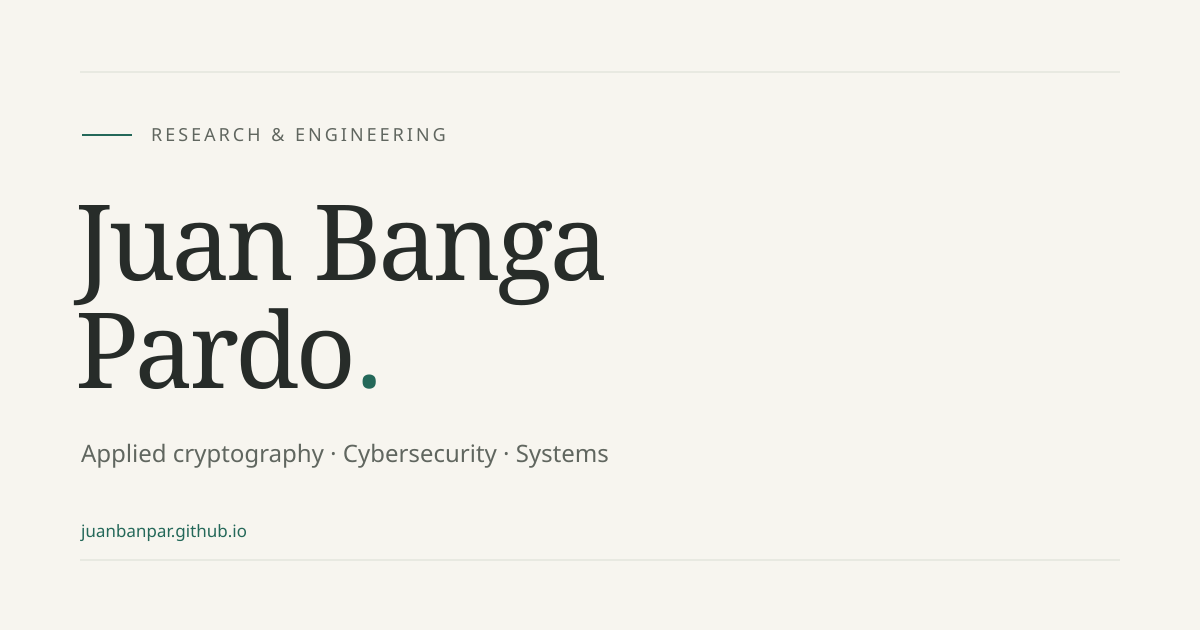
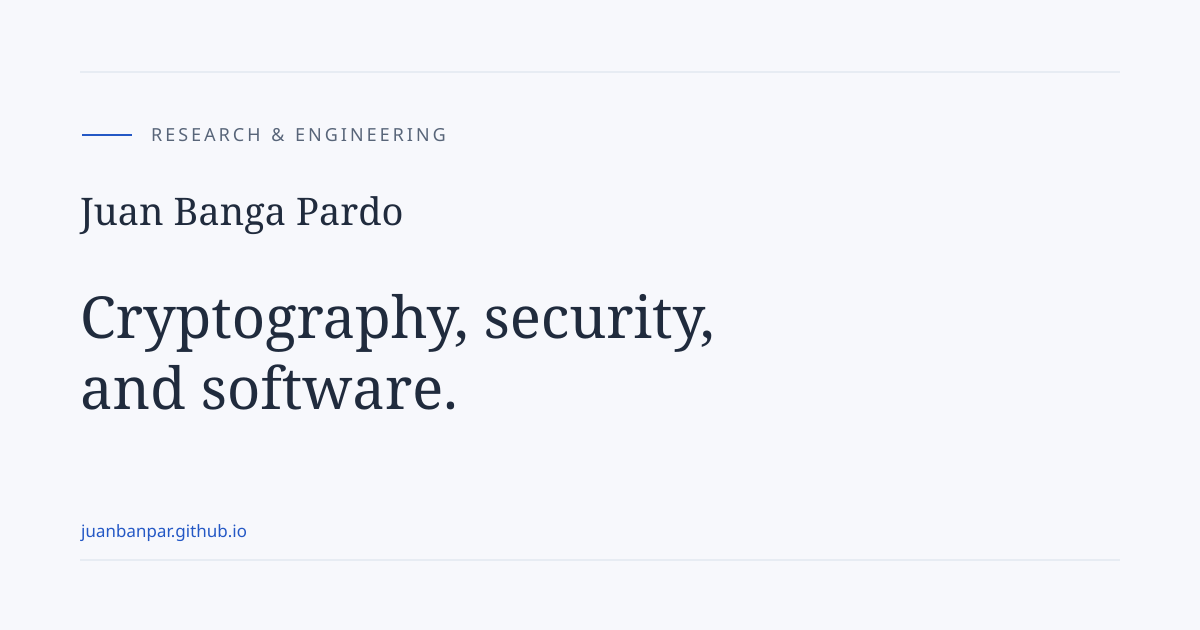
Refine blue theme and personal copy

diff --git a/src/lib/i18n.ts b/src/lib/i18n.ts
@@ -12,13 +12,14 @@ export const ui = {
   en: {
     nav: { home: 'Home', about: 'About', work: 'Work', writing: 'Writing' },
     role: 'Research & engineering',
-    introduction: 'I work where cryptography, hardware, and system trust meet.',
-    introDetail: 'Software engineer and cybersecurity researcher at Gradiant. I turn applied security research into working systems.',
+    greeting: "Hi, I'm Juan.",
+    introduction: 'I write software and ask awkward questions about what it trusts.',
+    introDetail: 'Software engineer and cybersecurity researcher at Gradiant. I work on cryptography, confidential computing, and Linux/RISC-V systems.',
     aboutLink: 'More about me', workLink: 'All work', writingLink: 'All writing',
     interests: 'Areas of interest', selected: 'Selected work', latest: 'Latest writing',
-    workIntro: 'Papers, talks, and software. A selection of things I have researched, built, and shared.',
-    writingIntro: 'Articles, working notes, and things that caught my attention.',
-    writingEmpty: 'Nothing published here yet. My papers, talks, and projects are collected in Work.',
+    workIntro: "Papers I've co-written, talks I've given, and things I've built.",
+    writingIntro: 'Notes on security, code, and things I probably spent too long investigating.',
+    writingEmpty: 'No posts yet. For now, the code and talks are in Work.',
     publications: 'Publications', talks: 'Talks', projects: 'Projects',
     paper: 'Publication', talk: 'Talk', project: 'Project', article: 'Article', note: 'Note',
     paperLink: 'Proceedings', talkLink: 'Event', codeLink: 'Source code', demoLink: 'Try WepSIM',
@@ -27,20 +28,21 @@ export const ui = {
     translations: 'Translations', archiveLabel: 'Writing archive', archiveFallback: 'Writing archive; this entry is not translated',
     back: 'Back to writing', notFound: 'Page not found',
     notFoundIntro: 'This page may have moved, or the address may be incorrect.', returnHome: 'Return home',
-    rss: 'RSS feed', footer: 'Research, software, and occasional notes.',
+    rss: 'RSS feed', footer: 'Code, cryptography, and occasional detours.',
     aboutDescription: 'Background, experience, and interests of Juan Banga Pardo, software engineer and cybersecurity researcher.',
     writingDescription: 'Articles and notes by Juan Banga Pardo on cryptography, security, and systems.',
   },
   gl: {
     nav: { home: 'Inicio', about: 'Sobre min', work: 'Traballo', writing: 'Escritos' },
     role: 'Investigación e enxeñaría',
-    introduction: 'Traballo onde conflúen a criptografía, o hardware e a confianza nos sistemas.',
-    introDetail: 'Enxeñeiro de software e investigador en ciberseguridade en Gradiant. Converto a investigación en seguridade aplicada en sistemas que funcionan.',
+    greeting: 'Ola, son Juan.',
+    introduction: 'Escribo software e fago preguntas incómodas sobre en que confía.',
+    introDetail: 'Enxeñeiro de software e investigador en ciberseguridade en Gradiant. Traballo en criptografía, computación confidencial e sistemas Linux/RISC-V.',
     aboutLink: 'Máis sobre min', workLink: 'Todo o traballo', writingLink: 'Todos os escritos',
     interests: 'Áreas de interese', selected: 'Traballo seleccionado', latest: 'Últimos escritos',
-    workIntro: 'Artigos científicos, charlas e software. Unha selección do que investiguei, desenvolvín e compartín.',
-    writingIntro: 'Artigos, notas de traballo e cousas que me chamaron a atención.',
-    writingEmpty: 'Aínda non hai escritos publicados aquí. As miñas publicacións, charlas e proxectos están en Traballo.',
+    workIntro: 'Artigos nos que participei, charlas que dei e cousas que desenvolvín.',
+    writingIntro: 'Notas sobre seguridade, código e cousas que probablemente investiguei máis tempo da conta.',
+    writingEmpty: 'Aínda non hai entradas. Polo de agora, o código e as charlas están en Traballo.',
     publications: 'Publicacións', talks: 'Charlas', projects: 'Proxectos',
     paper: 'Publicación', talk: 'Charla', project: 'Proxecto', article: 'Artigo', note: 'Nota',
     paperLink: 'Actas', talkLink: 'Evento', codeLink: 'Código fonte', demoLink: 'Probar WepSIM',
@@ -49,20 +51,21 @@ export const ui = {
     translations: 'Traducións', archiveLabel: 'Arquivo de escritos', archiveFallback: 'Arquivo de escritos; esta entrada non está traducida',
     back: 'Volver aos escritos', notFound: 'Páxina non atopada',
     notFoundIntro: 'Esta páxina pode ter cambiado de sitio ou o enderezo pode ser incorrecto.', returnHome: 'Volver ao inicio',
-    rss: 'Fonte RSS', footer: 'Investigación, software e notas ocasionais.',
+    rss: 'Fonte RSS', footer: 'Código, criptografía e algún desvío.',
     aboutDescription: 'Traxectoria, experiencia e intereses de Juan Banga Pardo, enxeñeiro de software e investigador en ciberseguridade.',
     writingDescription: 'Artigos e notas de Juan Banga Pardo sobre criptografía, seguridade e sistemas.',
   },
   es: {
     nav: { home: 'Inicio', about: 'Sobre mí', work: 'Trabajo', writing: 'Escritos' },
     role: 'Investigación e ingeniería',
-    introduction: 'Trabajo donde confluyen la criptografía, el hardware y la confianza en los sistemas.',
-    introDetail: 'Ingeniero de software e investigador en ciberseguridad en Gradiant. Convierto la investigación en seguridad aplicada en sistemas que funcionan.',
+    greeting: 'Hola, soy Juan.',
+    introduction: 'Escribo software y hago preguntas incómodas sobre en qué confía.',
+    introDetail: 'Ingeniero de software e investigador en ciberseguridad en Gradiant. Trabajo en criptografía, computación confidencial y sistemas Linux/RISC-V.',
     aboutLink: 'Más sobre mí', workLink: 'Todo el trabajo', writingLink: 'Todos los escritos',
     interests: 'Áreas de interés', selected: 'Trabajo seleccionado', latest: 'Últimos escritos',
-    workIntro: 'Artículos científicos, charlas y software. Una selección de lo que he investigado, desarrollado y compartido.',
-    writingIntro: 'Artículos, notas de trabajo y cosas que me llamaron la atención.',
-    writingEmpty: 'Todavía no hay escritos publicados aquí. Mis publicaciones, charlas y proyectos están en Trabajo.',
+    workIntro: 'Artículos que he escrito con otros, charlas que he dado y cosas que he desarrollado.',
+    writingIntro: 'Notas sobre seguridad, código y cosas que probablemente investigué más tiempo de la cuenta.',
+    writingEmpty: 'Todavía no hay entradas. Por ahora, el código y las charlas están en Trabajo.',
     publications: 'Publicaciones', talks: 'Charlas', projects: 'Proyectos',
     paper: 'Publicación', talk: 'Charla', project: 'Proyecto', article: 'Artículo', note: 'Nota',
     paperLink: 'Actas', talkLink: 'Evento', codeLink: 'Código fuente', demoLink: 'Probar WepSIM',
@@ -71,7 +74,7 @@ export const ui = {
     translations: 'Traducciones', archiveLabel: 'Archivo de escritos', archiveFallback: 'Archivo de escritos; esta entrada no está traducida',
     back: 'Volver a los escritos', notFound: 'Página no encontrada',
     notFoundIntro: 'Esta página puede haberse movido o la dirección puede ser incorrecta.', returnHome: 'Volver al inicio',
-    rss: 'Fuente RSS', footer: 'Investigación, software y notas ocasionales.',
+    rss: 'Fuente RSS', footer: 'Código, criptografía y algún desvío.',
     aboutDescription: 'Trayectoria, experiencia e intereses de Juan Banga Pardo, ingeniero de software e investigador en ciberseguridad.',
     writingDescription: 'Artículos y notas de Juan Banga Pardo sobre criptografía, seguridad y sistemas.',
   },

diff --git a/src/styles/global.css b/src/styles/global.css
@@ -11,12 +11,12 @@
 @layer theme {
   :root {
     color-scheme: light;
-    --bg: #f7f5ef;
-    --text: #272c29;
-    --muted: #60665f;
-    --accent: #246859;
-    --line: #d9ddd3;
-    --surface: #eeeee6;
+    --bg: #f7f8fc;
+    --text: #202b3d;
+    --muted: #586579;
+    --accent: #2458c5;
+    --line: #d8dfea;
+    --surface: #edf1f8;
     --serif: 'Iowan Old Style', 'Palatino Linotype', 'Book Antiqua', 'URW Palladio L', Georgia, serif;
     --sans: -apple-system, BlinkMacSystemFont, 'Segoe UI', sans-serif;
     --mono: 'SFMono-Regular', Consolas, 'Liberation Mono', monospace;
@@ -24,12 +24,12 @@
   @media (prefers-color-scheme: dark) {
     :root:not([data-theme='light']) {
       color-scheme: dark;
-      --bg: #191e1b; --text: #ecece1; --muted: #b1b9af; --accent: #94cbbb; --line: #3a443c; --surface: #252d27;
+      --bg: #131923; --text: #e7edf7; --muted: #a8b6cc; --accent: #8db8ff; --line: #303d52; --surface: #1d2839;
     }
   }
   :root[data-theme='dark'] {
     color-scheme: dark;
-    --bg: #191e1b; --text: #ecece1; --muted: #b1b9af; --accent: #94cbbb; --line: #3a443c; --surface: #252d27;
+    --bg: #131923; --text: #e7edf7; --muted: #a8b6cc; --accent: #8db8ff; --line: #303d52; --surface: #1d2839;
   }
 }
 
@@ -42,7 +42,7 @@
   a, button, summary { -webkit-tap-highlight-color: transparent; }
   :focus-visible { outline: 2px solid var(--accent); outline-offset: 5px; border-radius: 2px; }
   h1, h2, h3 { font-family: var(--serif); font-weight: 400; line-height: 1.16; text-wrap: balance; }
-  h1 { font-size: clamp(3rem, 7vw, 5.3rem); letter-spacing: -.045em; }
+  h1 { font-size: clamp(2.5rem, 5vw, 3.8rem); letter-spacing: -.035em; }
   h2 { font-size: clamp(1.8rem, 3vw, 2.2rem); letter-spacing: -.025em; }
   h3 { font-size: 1.6rem; letter-spacing: -.015em; }
   p { text-wrap: pretty; }
@@ -55,45 +55,38 @@
 @layer layout {
   .shell { width: min(100% - 6rem, 960px); margin-inline: auto; }
   .site-header { display: flex; align-items: center; gap: 2rem; padding-block: 2rem; border-bottom: 1px solid var(--line); }
-  .identity { color: var(--text); text-decoration: none; display: flex; align-items: center; gap: .8rem; margin-right: auto; }
-  .identity:hover { text-decoration: none; }
-  .monogram { font-family: var(--serif); font-size: 2.3rem; letter-spacing: -.08em; line-height: 1; }
-  .monogram span { color: var(--accent); }
-  .identity-name { font-size: .82rem; font-weight: 500; }
-  .main-nav { display: flex; gap: 1.6rem; align-items: center; }
+  .main-nav { display: flex; gap: 1.6rem; align-items: center; margin-right: auto; }
   .main-nav a { text-decoration: none; color: var(--muted); font-size: .85rem; padding-block: .45rem; }
   .main-nav a:hover, .main-nav a[aria-current='page'] { color: var(--text); text-decoration: underline; text-decoration-color: var(--accent); text-underline-offset: .65em; }
   .header-tools { display: flex; align-items: center; gap: .65rem; }
   main { min-height: 55vh; padding-bottom: 5rem; }
   .site-footer { display: flex; justify-content: space-between; gap: 2rem; border-top: 1px solid var(--line); padding-block: 2rem 3rem; }
-  .footer-name { font-family: var(--serif); font-size: 1.1rem; }
-  .site-footer p { font-size: .78rem; color: var(--muted); margin-top: .3rem; }
+  .site-footer p { font-size: .78rem; color: var(--muted); }
   .profile-links { display: flex; gap: 1.2rem; flex-wrap: wrap; align-items: start; padding-top: .25rem; }
   .profile-links a { font-size: .8rem; text-decoration: none; color: var(--muted); }
   .profile-links a:hover { color: var(--accent); text-decoration: underline; }
   @media (max-width: 760px) {
     .shell { width: calc(100% - 3rem); }
-    .site-header { gap: 1.4rem; flex-wrap: wrap; padding-block: 1.5rem; }
-    .identity { flex: 1; }
-    .main-nav { order: 3; flex-basis: 100%; gap: 1.8rem; }
+    .site-header { gap: .7rem; padding-block: 1.3rem; }
+    .main-nav { gap: 1.2rem; }
     .site-footer { flex-direction: column; gap: 1.25rem; }
     main { padding-bottom: 3.5rem; }
   }
   @media (max-width: 380px) {
     .shell { width: calc(100% - 2rem); }
-    .identity-name { font-size: .75rem; }
-    .main-nav { gap: 1.4rem; }
+    .main-nav { gap: .85rem; }
+    .main-nav a { font-size: .78rem; }
     .header-tools { gap: .15rem; }
   }
 }
 
 @layer components {
   .eyebrow { font-family: var(--sans); font-size: .7rem; text-transform: uppercase; letter-spacing: .13em; font-weight: 500; color: var(--muted); line-height: 1.5; }
-  .hero { padding-block: 5.3rem 3.5rem; max-width: 780px; }
+  .hero { padding-block: 4.2rem 3.2rem; max-width: 780px; }
   .hero .eyebrow { display: flex; gap: .85rem; align-items: center; margin-bottom: 1.6rem; }
   .accent-line { height: 1px; width: 2rem; background: var(--accent); }
-  .hero h1 { font-size: clamp(4.5rem, 10vw, 7.5rem); line-height: .97; letter-spacing: -.055em; margin-left: -.045em; }
-  .hero-lead { font-family: var(--serif); font-size: clamp(1.45rem, 3vw, 1.95rem); max-width: 630px; line-height: 1.35; margin-top: 2rem; }
+  .hero h1 { font-size: clamp(2.2rem, 4vw, 3rem); line-height: 1.15; letter-spacing: -.035em; }
+  .hero-lead { font-family: var(--serif); font-size: clamp(1.35rem, 2.5vw, 1.7rem); max-width: 620px; line-height: 1.4; margin-top: 1.4rem; }
   .hero-detail { max-width: 540px; color: var(--muted); font-size: .98rem; margin-block: 1rem 1.5rem; }
   .text-link { display: inline-flex; align-items: baseline; gap: .4rem; font-size: .83rem; text-decoration: none; }
   .text-link:hover { text-decoration: underline; }
@@ -162,7 +155,6 @@
     .section-heading { align-items: start; }
     .section-heading .text-link { font-size: .73rem; padding-top: .45rem; flex-shrink: 0; }
     .section-heading h2 { font-size: 1.65rem; }
-    .hero h1 { font-size: 4.5rem; }
     .page-section { margin-top: 2.6rem; }
   }
 }

diff --git a/tests/browser/site.spec.ts b/tests/browser/site.spec.ts
@@ -37,11 +37,11 @@ test('theme follows the device, can be overridden, persists, and can return to s
   await page.emulateMedia({ colorScheme: 'dark' });
   await page.goto('/');
   const bg = () => page.locator('html').evaluate((element) => getComputedStyle(element).backgroundColor);
-  expect(await bg()).toBe('rgb(25, 30, 27)');
+  expect(await bg()).toBe('rgb(19, 25, 35)');
   await expect(page.locator('.theme-toggle')).toHaveAccessibleName('Color theme: System');
   await page.locator('.theme-toggle').click();
   await expect(page.locator('html')).toHaveAttribute('data-theme', 'light');
-  expect(await bg()).toBe('rgb(247, 245, 239)');
+  expect(await bg()).toBe('rgb(247, 248, 252)');
   await page.locator('.theme-toggle').click();
   await expect(page.locator('html')).toHaveAttribute('data-theme', 'dark');
   await page.reload();
@@ -49,7 +49,7 @@ test('theme follows the device, can be overridden, persists, and can return to s
   await page.screenshot({ path: testInfo.outputPath('home-dark.png'), fullPage: true });
   await page.locator('.theme-toggle').click();
   await expect(page.locator('html')).not.toHaveAttribute('data-theme');
-  expect(await bg()).toBe('rgb(25, 30, 27)');
+  expect(await bg()).toBe('rgb(19, 25, 35)');
 });
 
 test('keyboard skip link and language menu focus work', async ({ page }) => {
@@ -72,7 +72,7 @@ test('core content and language switching work without JavaScript', async ({ bro
   const context = await browser.newContext({ javaScriptEnabled: false });
   const page = await context.newPage();
   await page.goto('http://127.0.0.1:4321/');
-  await expect(page.locator('h1')).toContainText('Juan Banga');
+  await expect(page.locator('h1')).toContainText("Hi, I'm Juan.");
   await expect(page.locator('.theme-toggle')).toBeHidden();
   await page.locator('.language-menu summary').click();
   await page.locator('.language-menu').getByRole('link', { name: 'Español', exact: true }).click();

diff --git a/src/content/biography/gl.md b/src/content/biography/gl.md
@@ -2,9 +2,9 @@
 language: gl
 ---
 
-Son enxeñeiro de software e investigador en criptografía aplicada e ciberseguridade en [Gradiant](https://www.gradiant.org/). O meu traballo combina investigación en seguridade con desenvolvemento práctico en sistemas Linux e RISC-V.
+Son Juan Banga Pardo, enxeñeiro de software e investigador en ciberseguridade en [Gradiant](https://www.gradiant.org/). Traballo en criptografía aplicada e desenvolvo cousas para sistemas Linux e RISC-V.
 
-Interésame comprender a criptografía xa despregada en contornos complexos, facilitar o seu cambio seguro e establecer confianza entre sistemas. Iso lévame aos inventarios criptográficos, á migración poscuántica, á computación confidencial e á atestación remota.
+Boa parte do meu traballo consiste en descubrir que fai un sistema, en que confía e que pasa cando cambia algunha das dúas cousas. Iso inclúe inventarios criptográficos, migración poscuántica, computación confidencial e atestación remota. As siglas tenden a multiplicarse.
 
 ## Experiencia
 
@@ -12,11 +12,11 @@ Interésame comprender a criptografía xa despregada en contornos complexos, fac
 
 **Enxeñeiro investigador · Novembro de 2023–actualidade**
 
-No departamento de Seguridade e Privacidade desenvolvo prototipos de investigación e ferramentas de ciberseguridade aplicada. Desde xuño de 2024 traballo como enxeñeiro investigador de nivel intermedio, tras unha etapa inicial como júnior.
+No departamento de Seguridade e Privacidade desenvolvo e probo prototipos de investigación e ferramentas de seguridade. Entrei como enxeñeiro investigador júnior e pasei a un posto de nivel intermedio en xuño de 2024.
 
-O meu traballo inclúe o descubrimento de bibliotecas e algoritmos criptográficos mediante análise estática e observación en execución con eBPF/uprobes, a consolidación de inventarios criptográficos e a investigación de mecanismos automatizados de remediación para claves, certificados e algoritmos.
+Uso análise estática e eBPF/uprobes para descubrir que bibliotecas e algoritmos criptográficos utiliza realmente un sistema. Tamén traballo en inventarios criptográficos e remediación automatizada de claves, certificados e algoritmos.
 
-Tamén investigo contornos de execución de confianza e atestación con Intel TDX, AMD SEV-SNP e RISC-V CoVE, incluíndo arranque medido, raíces de confianza baseadas en TPM e arquitecturas aliñadas con IETF RATS. En etapas anteriores traballei no desenvolvemento de backend, interfaces para plataformas de investigación e integracións con hardware criptográfico e HSM.
+Outra parte do meu traballo son os contornos de execución de confianza e a atestación: Intel TDX, AMD SEV-SNP, RISC-V CoVE, arranque medido, raíces de confianza baseadas en TPM e IETF RATS. Tamén desenvolvín backends e interfaces para plataformas de investigación e integrei hardware criptográfico e HSM.
 
 ## Formación
 

diff --git a/src/content/biography/es.md b/src/content/biography/es.md
@@ -2,9 +2,9 @@
 language: es
 ---
 
-Soy ingeniero de software e investigador en criptografía aplicada y ciberseguridad en [Gradiant](https://www.gradiant.org/). Mi trabajo combina investigación en seguridad con desarrollo práctico en sistemas Linux y RISC-V.
+Soy Juan Banga Pardo, ingeniero de software e investigador en ciberseguridad en [Gradiant](https://www.gradiant.org/). Trabajo en criptografía aplicada y desarrollo cosas para sistemas Linux y RISC-V.
 
-Me interesa comprender la criptografía ya desplegada en entornos complejos, facilitar su cambio seguro y establecer confianza entre sistemas. Eso me lleva a los inventarios criptográficos, la migración poscuántica, la computación confidencial y la atestación remota.
+Buena parte de mi trabajo consiste en descubrir qué hace un sistema, en qué confía y qué pasa cuando cambia alguna de las dos cosas. Eso incluye inventarios criptográficos, migración poscuántica, computación confidencial y atestación remota. Las siglas tienden a multiplicarse.
 
 ## Experiencia
 
@@ -12,11 +12,11 @@ Me interesa comprender la criptografía ya desplegada en entornos complejos, fac
 
 **Ingeniero investigador · Noviembre de 2023–actualidad**
 
-En el departamento de Seguridad y Privacidad desarrollo prototipos de investigación y herramientas de ciberseguridad aplicada. Desde junio de 2024 trabajo como ingeniero investigador de nivel intermedio, tras una etapa inicial como júnior.
+En el departamento de Seguridad y Privacidad desarrollo y pruebo prototipos de investigación y herramientas de seguridad. Entré como ingeniero investigador júnior y pasé a un puesto de nivel intermedio en junio de 2024.
 
-Mi trabajo incluye el descubrimiento de bibliotecas y algoritmos criptográficos mediante análisis estático y observación en ejecución con eBPF/uprobes, la consolidación de inventarios criptográficos y la investigación de mecanismos automatizados de remediación para claves, certificados y algoritmos.
+Uso análisis estático y eBPF/uprobes para descubrir qué bibliotecas y algoritmos criptográficos utiliza realmente un sistema. También trabajo en inventarios criptográficos y remediación automatizada de claves, certificados y algoritmos.
 
-También investigo entornos de ejecución de confianza y atestación con Intel TDX, AMD SEV-SNP y RISC-V CoVE, incluyendo arranque medido, raíces de confianza basadas en TPM y arquitecturas alineadas con IETF RATS. En etapas anteriores trabajé en el desarrollo de backend, interfaces para plataformas de investigación e integraciones con hardware criptográfico y HSM.
+Otra parte de mi trabajo son los entornos de ejecución de confianza y la atestación: Intel TDX, AMD SEV-SNP, RISC-V CoVE, arranque medido, raíces de confianza basadas en TPM e IETF RATS. También he desarrollado backends e interfaces para plataformas de investigación e integrado hardware criptográfico y HSM.
 
 ## Formación
 

diff --git a/src/content/biography/en.md b/src/content/biography/en.md
@@ -2,9 +2,9 @@
 language: en
 ---
 
-I am a software engineer and researcher in applied cryptography and cybersecurity at [Gradiant](https://www.gradiant.org/). My work combines security research with hands-on development across Linux and RISC-V systems.
+I'm Juan Banga Pardo, a software engineer and cybersecurity researcher at [Gradiant](https://www.gradiant.org/). I work on applied cryptography and build things for Linux and RISC-V systems.
 
-I am interested in understanding the cryptography already deployed in complex environments, making it easier to change safely, and establishing trust between systems. That leads me to cryptographic inventories, post-quantum migration, confidential computing, and remote attestation.
+Most of my work comes down to finding out what a system is doing, what it trusts, and what happens when either changes. That means cryptographic inventories, post-quantum migration, confidential computing, and remote attestation. The acronyms do tend to multiply.
 
 ## Experience
 
@@ -12,11 +12,11 @@ I am interested in understanding the cryptography already deployed in complex en
 
 **Research engineer · November 2023–present**
 
-Within the Security and Privacy department, I develop research prototypes and tools for applied cybersecurity. Since June 2024, I have worked as an intermediate research engineer, following an initial junior role.
+In the Security and Privacy department, I build and test research prototypes and security tools. I joined as a junior research engineer and moved to an intermediate role in June 2024.
 
-My work includes discovering cryptographic libraries and algorithms through static analysis and runtime observation with eBPF/uprobes, consolidating cryptographic inventories, and researching automated remediation for keys, certificates, and algorithms.
+I use static analysis and eBPF/uprobes to find out which cryptographic libraries and algorithms a system actually uses. I also work on cryptographic inventories and automated remediation for keys, certificates, and algorithms.
 
-I also research trusted execution environments and attestation with Intel TDX, AMD SEV-SNP, and RISC-V CoVE, including measured boot, TPM-backed roots of trust, and architectures aligned with IETF RATS. Earlier work included backend development, research platform interfaces, and integrations with cryptographic hardware and HSMs.
+Another part of my work is trusted execution environments and attestation: Intel TDX, AMD SEV-SNP, RISC-V CoVE, measured boot, TPM-backed roots of trust, and IETF RATS. I've also built backends and research platform interfaces, and integrated cryptographic hardware and HSMs.
 
 ## Education
 
